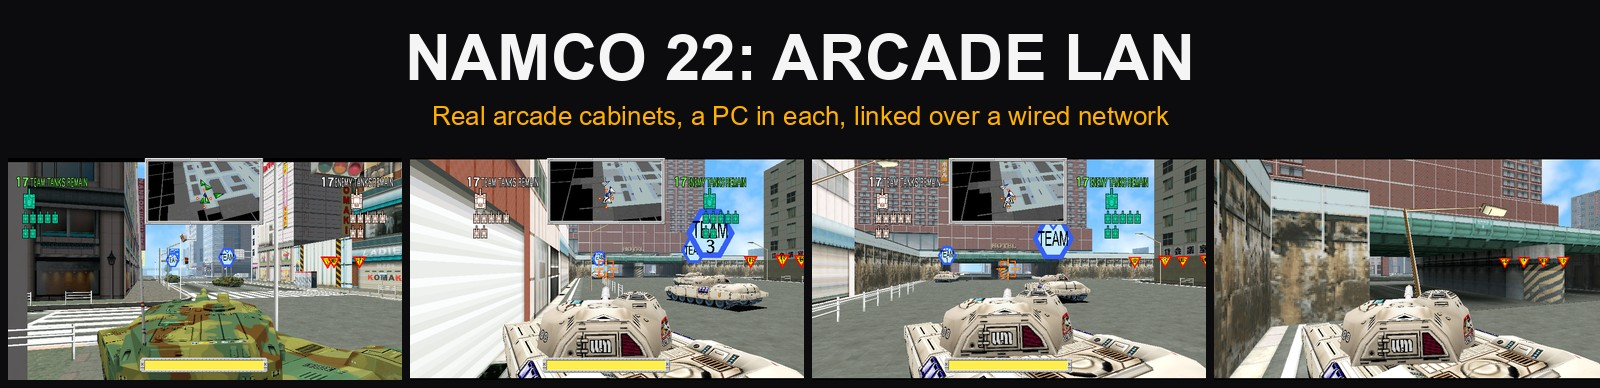
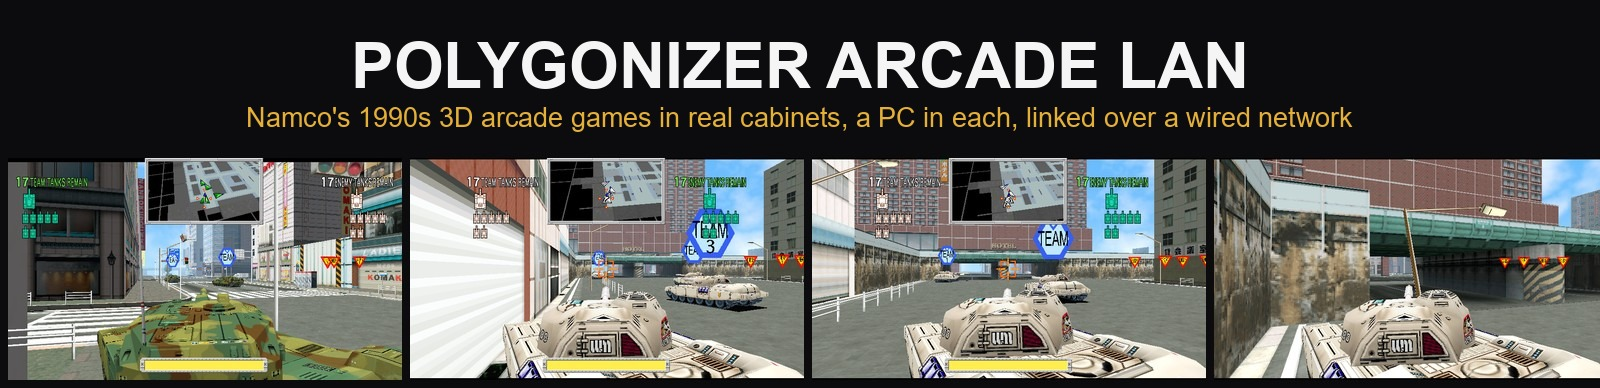
README header and package READ ME: Polygonizer Arcade LAN; drop the old name

Changed region(s): [[0.2188, 0.0619, 0.7812, 0.2474], [0.1562, 0.2784, 0.8438, 0.3402]]

diff --git a/README.md b/README.md
@@ -5,7 +5,7 @@
 # Polygonizer Arcade LAN
 
 *Named after "Polygonizer", Namco's own name for System 21, its first 3D polygon board: every game here comes
-from that 1990s line of boards (System 21, 22, Super 22, Gorgon and System 23). Formerly "Namco 22: Arcade LAN".*
+from that 1990s line of boards (System 21, 22, Super 22, Gorgon and System 23).*
 
 **A fork of [namco22-decompile](https://github.com/spacestate1/namco22-decompile) by
 [spacestate1](https://github.com/spacestate1), made to keep real arcade cabinets running.**
